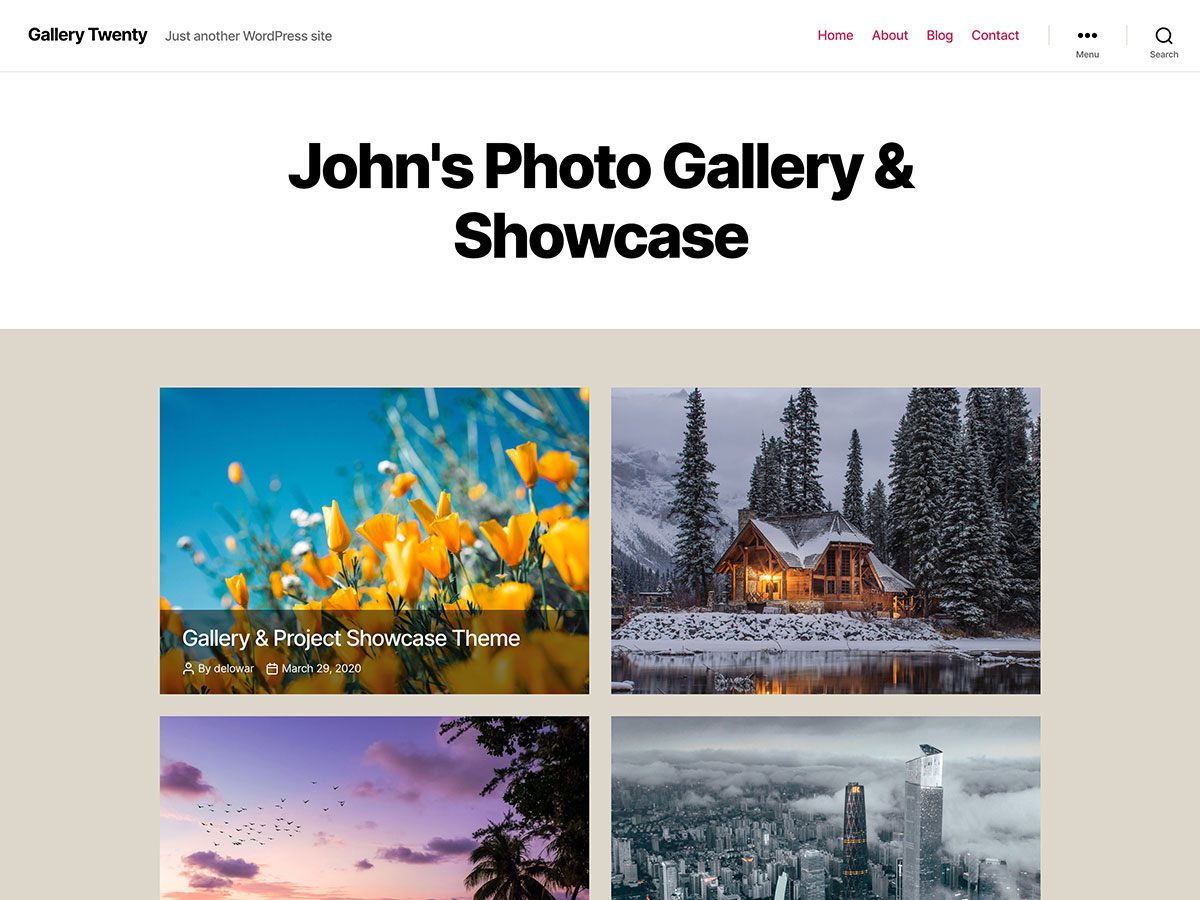
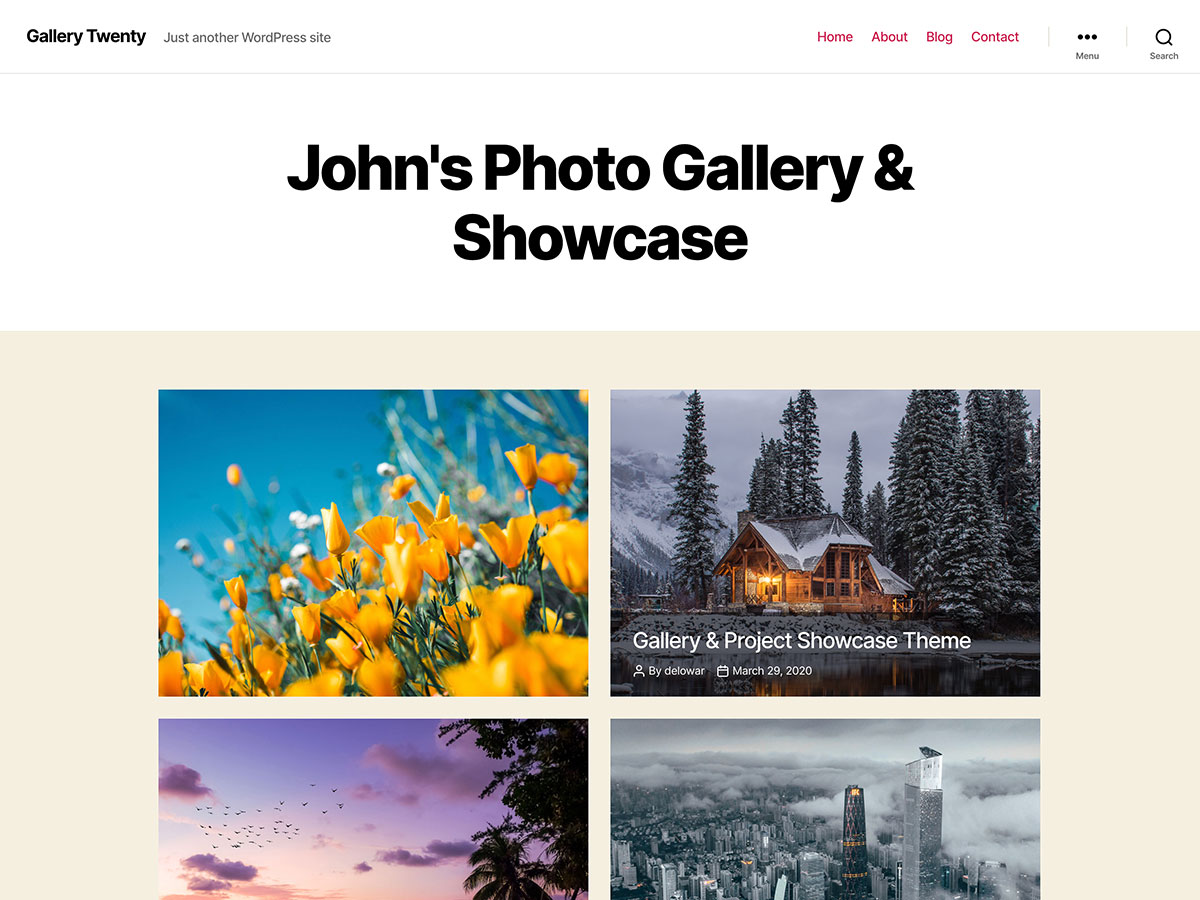
screenshot updated

diff --git a/style.css b/style.css
@@ -110,7 +110,7 @@ html {
   html {
     scroll-behavior: auto; } }
 body {
-  background: #dcd7ca;
+  background: #f5efe0;
   box-sizing: border-box;
   color: #000;
   font-family: -apple-system, BlinkMacSystemFont, "Helvetica Neue", Helvetica, sans-serif;

diff --git a/assets/scss/_style.scss b/assets/scss/_style.scss
@@ -125,7 +125,7 @@ html {
 }
 
 body {
-    background: #dcd7ca;
+    background: #f5efe0;
     box-sizing: border-box;
     color: #000;
     font-family: -apple-system, BlinkMacSystemFont, "Helvetica Neue", Helvetica, sans-serif;

diff --git a/classes/Functions.php b/classes/Functions.php
@@ -274,7 +274,7 @@ class Functions{
         add_theme_support(
             'custom-background',
             array(
-                'default-color' => 'dcd7ca',
+                'default-color' => 'f5efe0',
             )
         );
 
